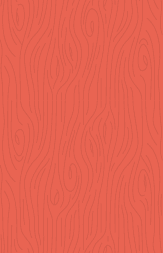
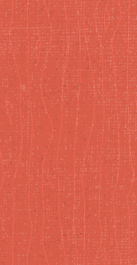
Added texture to images

diff --git a/app/src/css/style.css b/app/src/css/style.css
@@ -225,44 +225,53 @@ body {
 
 /* line 152, ../scss/style.scss */
 .app {
+  position: relative;
   background-image: url("../img/patterns/white-wood.png");
   -webkit-background-size: 30%;
   -moz-background-size: 30%;
   -o-background-size: 30%;
   background-size: 30%;
 }
-/* line 156, ../scss/style.scss */
+/* line 157, ../scss/style.scss */
 .red-wood .app {
   background-image: url("../img/patterns/red-wood.png");
 }
-
 /* line 161, ../scss/style.scss */
+.blue-wood .app {
+  background-image: url("../img/patterns/blue-wood.png");
+}
+/* line 165, ../scss/style.scss */
+.orange-wood .app {
+  background-image: url("../img/patterns/orange-wood.png");
+}
+
+/* line 170, ../scss/style.scss */
 h2 {
   font-family: 'DIN Condensed';
   font-size: .9em;
-  margin: 1em 0 .5em;
+  margin: 1em 0 0.5em;
   text-transform: uppercase;
 }
 
-/* line 168, ../scss/style.scss */
+/* line 177, ../scss/style.scss */
 p {
   font-size: .85em;
   line-height: 1.4;
   letter-spacing: -0.7px;
 }
-/* line 173, ../scss/style.scss */
+/* line 182, ../scss/style.scss */
 p a {
   color: #e96452;
   text-decoration: none;
 }
 
-/* line 179, ../scss/style.scss */
+/* line 188, ../scss/style.scss */
 .introduction {
   margin: 5em 0 2em;
   text-align: center;
 }
 
-/* line 184, ../scss/style.scss */
+/* line 193, ../scss/style.scss */
 #overlay {
   width: 100%;
   height: 100%;
@@ -272,24 +281,24 @@ p a {
   pointer-events: none;
   text-align: center;
 }
-/* line 192, ../scss/style.scss */
+/* line 201, ../scss/style.scss */
 #overlay img {
   padding-top: 40px;
   width: 50%;
 }
 
 @-webkit-keyframes logo-animatie {
-  /* line 199, ../scss/style.scss */
+  /* line 210, ../scss/style.scss */
   0% {
     -webkit-transform: rotate(-10deg);
   }
 
-  /* line 203, ../scss/style.scss */
+  /* line 214, ../scss/style.scss */
   50% {
     -webkit-transform: rotate(10deg);
   }
 
-  /* line 207, ../scss/style.scss */
+  /* line 218, ../scss/style.scss */
   100% {
     -webkit-transform: rotate(-10deg);
   }
@@ -750,36 +759,7 @@ span.arrow {
 
 /* line 49, ../scss/modules/_list-view.scss */
 .list-detail-view {
-  padding: .5em 5% 1em;
-<<<<<<< HEAD
-}
-/* line 52, ../scss/modules/_list-view.scss */
-.list-detail-view .location {
-  margin: 1em 0;
-  font-style: italic;
-  padding-left: 25px;
-  background-image: url("../img/address.png");
-  background-size: 19px 18px;
-  background-repeat: no-repeat;
-  background-position: 0 3px;
-  position: relative;
-}
-/* line 63, ../scss/modules/_list-view.scss */
-.list-detail-view .maps-button {
-  position: absolute;
-  top: 0;
-  right: 0;
-}
-/* line 69, ../scss/modules/_list-view.scss */
-.list-detail-view img {
-  border: 6px solid #fff;
-  -webkit-box-sizing: border-box;
-  -moz-box-sizing: border-box;
-  box-sizing: border-box;
-  margin-bottom: 1em;
-  max-width: 100%;
-=======
->>>>>>> Calendar
+  padding: 0.5em 5% 1em;
 }
 
 /* line 53, ../scss/modules/_list-view.scss */
@@ -801,7 +781,7 @@ span.arrow {
   text-transform: none;
   top: .55rem;
   right: .6rem;
-  padding: 1em .8em 0 .8em;
+  padding: 1em 0.8em 0 0.8em;
   letter-spacing: 0px;
   height: 29px;
   width: 65px;
@@ -831,7 +811,7 @@ span.arrow {
 }
 /* line 94, ../scss/modules/_list-view.scss */
 .detail-view img {
-  border: 6px solid #fff;
+  border: 6px solid white;
   -webkit-box-sizing: border-box;
   -moz-box-sizing: border-box;
   box-sizing: border-box;
@@ -844,7 +824,7 @@ span.arrow {
   background-color: #f4f1e3;
   border: 3px solid #331f14;
   margin: 1em 0;
-  padding: .5em 5%;
+  padding: 0.5em 5%;
   position: relative;
 }
 /* line 110, ../scss/modules/_list-view.scss */
@@ -911,7 +891,7 @@ span.arrow {
   display: block;
   float: left;
   margin: 0;
-  padding: .3em 0 0;
+  padding: 0.3em 0 0;
   text-align: center;
   width: 80%;
 }
@@ -935,7 +915,7 @@ span.arrow {
   -moz-box-sizing: border-box;
   box-sizing: border-box;
   text-align: center;
-  padding: .8em 0;
+  padding: 0.8em 0;
   position: relative;
   width: 14%;
   z-index: 1;
@@ -959,7 +939,7 @@ span.arrow {
   right: 0;
   bottom: 0;
   left: 0;
-  padding: .8em 0;
+  padding: 0.8em 0;
   text-decoration: none;
   width: 100%;
   z-index: -1;

diff --git a/app/src/test.htm b/app/src/test.htm
@@ -1,0 +1,63 @@
+<!doctype html>
+<html lang="en">
+<head>
+    <meta charset="UTF-8">
+    <title>Rolstende</title>
+    <meta name="viewport" content="width=device-width, initial-scale=1, maximum-scale=1, user-scalable=no, minimum-scale=1">
+    <meta name="apple-mobile-web-app-capable" content="yes">
+    <link rel="stylesheet" href="http://fonts.googleapis.com/css?family=Bitter:400,400italic" />
+    <link rel="stylesheet" href="css/style.css" />
+</head>
+<body class="blue-wood">
+    <div id="app-wrapper">
+        <nav class="sidebar" id="sidebar">
+            <div id="noise"></div>
+            <ul>
+                <li class="spots">
+                    <a href="#">Spots</a>
+                </li>
+                <li class="events">
+                    <a href="#">Events</a>
+                </li>
+                <li class="info">
+                    <a href="#">Info</a>
+                </li>
+            </ul>
+        </nav>
+        <div id="app" class="app">
+            <header class="list-header">
+                <h1 class="heading heading-hotels">Hotels</h1>
+                <a href="#" class="back-button">Terug</a>
+            </header>
+
+                <div class="wide-container container">
+                            <p>Nullam id dolor id nibh ultricies vehicula ut id elit. Cum sociis natoque penatibus et magnis dis parturient montes, nascetur ridiculus mus. Praesent commodo cursus magna, vel scelerisque nisl consectetur et. Aenean eu leo quam. Pellentesque ornare sem lacinia quam venenatis vestibulum. Maecenas sed diam eget risus varius blandit sit amet non magna. Aenean eu leo quam. Pellentesque ornare sem lacinia quam venenatis vestibulum. Donec ullamcorper nulla non metus auctor fringilla.
+
+                Fusce dapibus, tellus ac cursus commodo, tortor mauris condimentum nibh, ut fermentum massa justo sit amet risus. Maecenas faucibus mollis interdum. Integer posuere erat a ante venenatis dapibus posuere velit aliquet. Aenean eu leo quam. Pellentesque ornare sem lacinia quam venenatis vestibulum. Cum sociis natoque penatibus et magnis dis parturient montes, nascetur ridiculus mus. Morbi leo risus, porta ac consectetur ac, vestibulum at eros. Aenean eu leo quam. Pellentesque ornare sem lacinia quam venenatis vestibulum.
+
+                Maecenas faucibus mollis interdum. Nulla vitae elit libero, a pharetra augue. Donec sed odio dui. Etiam porta sem malesuada magna mollis euismod. Maecenas faucibus mollis interdum. Donec id elit non mi porta gravida at eget metus. Cras justo odio, dapibus ac facilisis in, egestas eget quam.
+
+                Duis mollis, est non commodo luctus, nisi erat porttitor ligula, eget lacinia odio sem nec elit. Nullam id dolor id nibh ultricies vehicula ut id elit. Cum sociis natoque penatibus et magnis dis parturient montes, nascetur ridiculus mus. Cras mattis consectetur purus sit amet fermentum.</p>
+                </div>
+
+
+
+        
+        </div>
+ <div id="noise-big"></div>
+    </div>
+
+    <div id="overlay">
+        <img src="img/logo_big.png" alt="logo_big" title="loading..." />
+    </div>
+    
+    <script type="text/javascript" src="//ajax.googleapis.com/ajax/libs/jquery/1.9.1/jquery.min.js"></script>
+    <script type="text/javascript">
+        window.jQuery || document.write('<script type="text/javascript" src="js/libs/jquery.js"><\/script>');
+    </script>
+    <script type="text/javascript" src="js/vendors/jquery.animate-enhanced.js"></script>
+    <script type="text/javascript" src="js/vendors/slidingview.js"></script>
+    <script type="text/javascript" src="js/vendors/oriDomi.js"></script>
+    <script type="text/javascript" src="js/app.js"></script>
+</body>
+</html>

diff --git a/app/src/scss/style.scss b/app/src/scss/style.scss
@@ -150,11 +150,20 @@ body {
 }
 
 .app {
+    position: relative;
     background-image: url('../img/patterns/white-wood.png');
     @include background-size(30%);
 
     .red-wood & {
         background-image: url('../img/patterns/red-wood.png');
+     
+    }
+    .blue-wood & {
+         background-image: url('../img/patterns/blue-wood.png');
+    }
+
+    .orange-wood & {
+          background-image: url('../img/patterns/orange-wood.png'); 
     }
 }
 
@@ -194,6 +203,8 @@ p {
         width: 50%;
     }
 }
+
+
 
 @-webkit-keyframes logo-animatie {
     0% {

diff --git a/app/src/index.htm b/app/src/index.htm
@@ -23,7 +23,7 @@
                 </li>
             </ul>
         </nav>
-        <div id="app" class="app">
+        <div id="app" class="app">           
             <header class="top">
                 <!-- <a href="#" class="nav-toggle">Menu</a> -->
                 <!-- <img src="img/logo.png" alt="logo_rolstende" title="Logo Rolstende" id="logo" /> -->
@@ -63,8 +63,9 @@
                     </li>
                 </ul>
             </div>
-
+     
         </div>
+        
     </div>
 
     <div id="overlay">

diff --git a/app/src/info.htm b/app/src/info.htm
@@ -63,8 +63,8 @@
                         <input type="submit" value="" name="info-submit" />
                 </form>
             </div>
-
         </div>
+
     </div>
     <script type="text/javascript" src="http://ajax.googleapis.com/ajax/libs/jquery/1.9.1/jquery.min.js"></script>
     <script type="text/javascript">

diff --git a/api/models/Hotels.php b/api/models/Hotels.php
@@ -34,6 +34,7 @@ class Hotels extends BaseModel
             $this->latitude = (float) $result['latitude'];
             $this->longitude = (float) $result['longitude'];
             $this->description = $result['description'];
+            $this->available = $result['available'];
 
            
 

diff --git a/api/index.php b/api/index.php
@@ -99,7 +99,7 @@ $app->get('/pointsofinterest', function () {
     die($output);
 });
 
-$app->get('/pointsofinterest/:id', function ($id) {
+$app->get('/pointofinterest/:id', function ($id) {
     $poi = new PointsOfInterest();
     die(json_encode($poi->findById($id)));
 });
